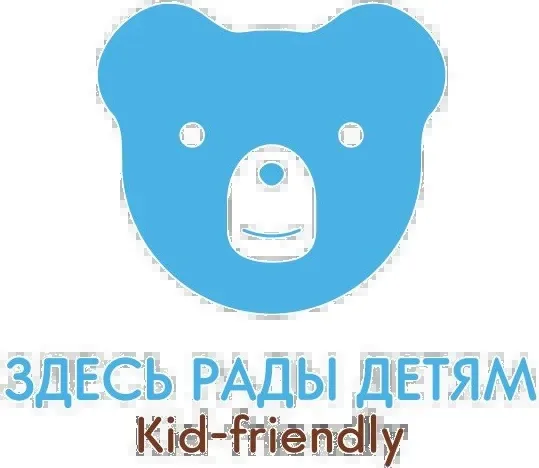
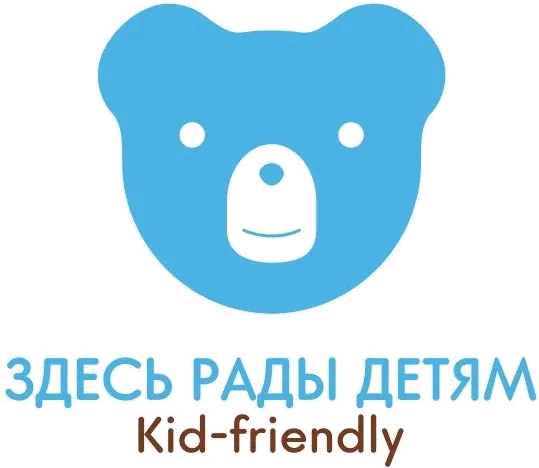
fix: восстановлена прозрачность логотипа/бейджа (баг сжатия), возвращён блок видео 'как добраться'

diff --git a/index.html b/index.html
@@ -1201,6 +1201,12 @@
                             <b>Как найти:</b> Напротив ДС "Борисоглебский" находится магазин "Пятёрочка". Студия в том
                             же здании, вход со двора ЖК.
                         </p>
+                        <div class="w-full relative rounded-2xl overflow-hidden shadow-md mb-4" style="padding-top: 56.25%;">
+                            <video class="absolute inset-0 w-full h-full object-cover" controls playsinline preload="metadata">
+                                <source src="img/kak-dobratsya.mp4" type="video/mp4">
+                                Ваш браузер не поддерживает тег video.
+                            </video>
+                        </div>
                         <p class="mb-2"><i class="bi bi-clock-fill text-[#C2828F] mr-2"></i> Пн-Вс: 10:00 - 20:00</p>
                         <p class="mb-4"><i class="bi bi-phone-fill text-[#C2828F] mr-2"></i> <a class="hover:underline" href="tel:+79264281144">+7
                             (926) 428-11-44</a></p>
